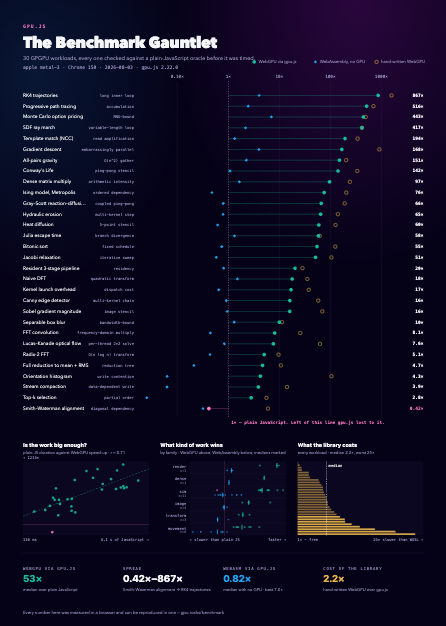
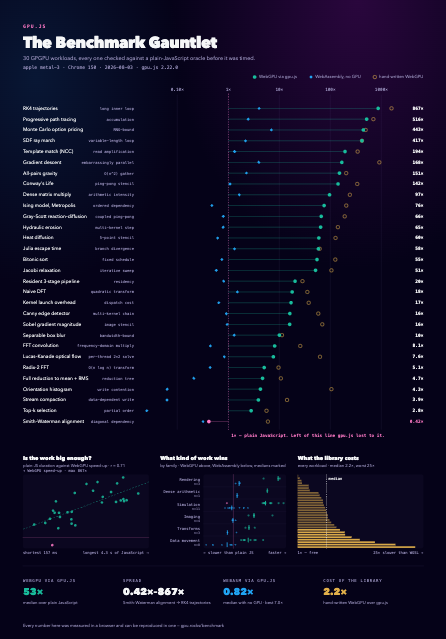
bench: fixes from the poster's aesthetic review
Five design lenses reviewed the rendered poster; every finding was then handed
to a separate agent whose job was to refute it. 7 of 35 survived. All seven
are fixed here, plus one the review missed.

THE ONE THAT MATTERED. Panel A's three corner captions printed xlo/xhi/yhi —
min*0.7 and max*1.4, breathing room — in the same muted mono as every measured
figure on the sheet. On this run that read 110 ms, 6.1 s and 1214x, none of
which occurs anywhere in the data. Worse, the poster prints 867x for that same
quantity twice elsewhere (footer SPREAD, and row 1), so it contradicted itself
on its headline number, in a panel styled to look measured, on a sheet closing
with "every number here was measured in a browser". Verified independently
against the run: the true extremes are 157.45 ms, 4349.50 ms, 867.19x.

They now name the extremes — "shortest 157 ms", "longest 4.3 s of JavaScript",
"max 867x". The wording is load-bearing: the extremes are inset from the edges
by the padding, so a bare number in the corner would relabel the edge instead
of the data. It also names the y axis, which had no name.

MEASUREMENT REPLACES ESTIMATION. The generator budgeted proportional text with
a px-per-character constant. Across these thirty names the real figure runs
5.60 to 7.06, so 7.0 truncated "Gray-Scott reaction-diffusion" with 23px of
room to spare — and would silently OVERLAP a name of capitals, which measures
8.5. The layout is measured with getComputedTextLength() on real text nodes
[…]

diff --git a/src/Bench/poster.js b/src/Bench/poster.js
@@ -8,10 +8,10 @@
  * and the same fix on the module card art.
  */
 export default {
-  full: '/img/bench/gauntlet.png?v=13a781c6',
-  thumb: '/img/bench/gauntlet-thumb.png?v=2dc788ce',
+  full: '/img/bench/gauntlet.png?v=1f634df3',
+  thumb: '/img/bench/gauntlet-thumb.png?v=d4e86b39',
   width: 1240,
-  height: 1740,
+  height: 1776,
   rows: 30,
   machine: "apple metal-3 · Chrome 150",
   gpujs: "2.22.0",
